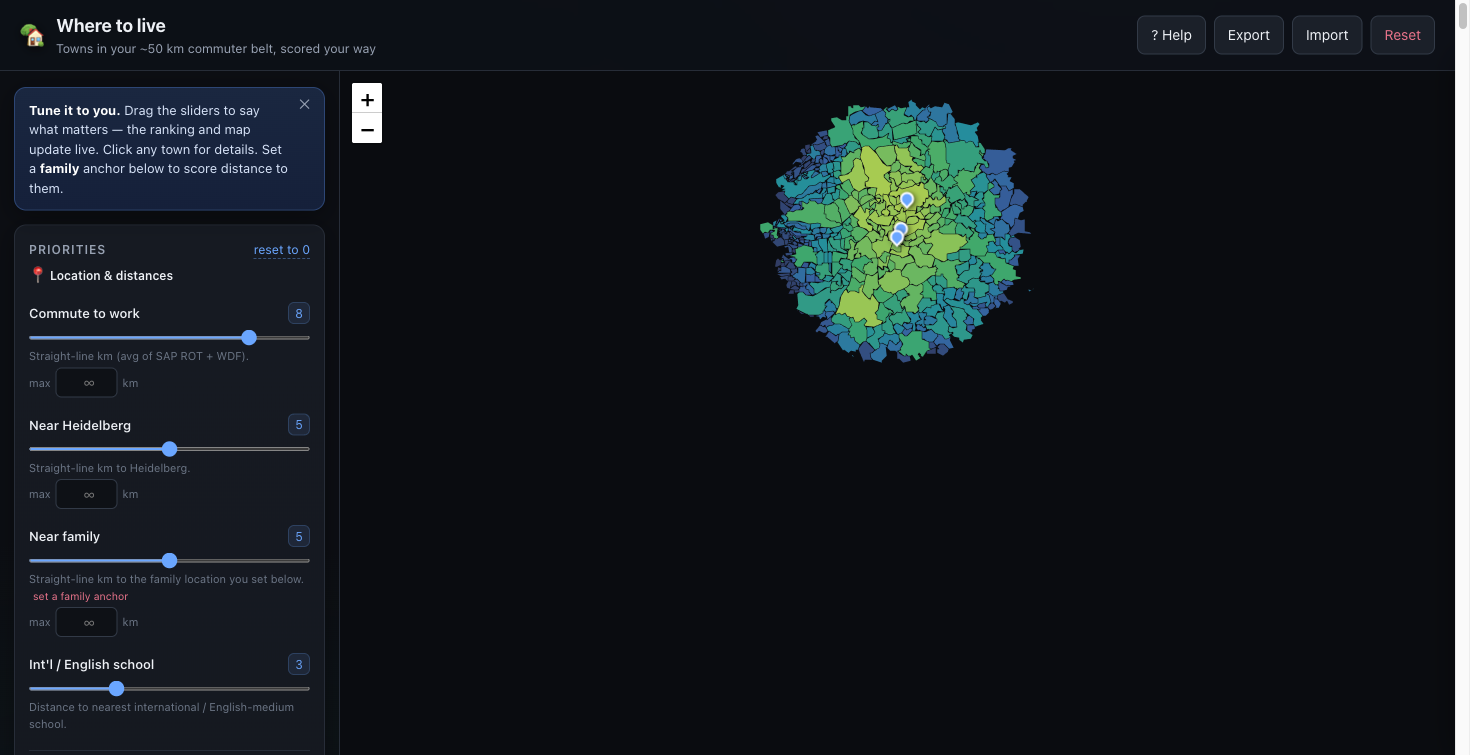
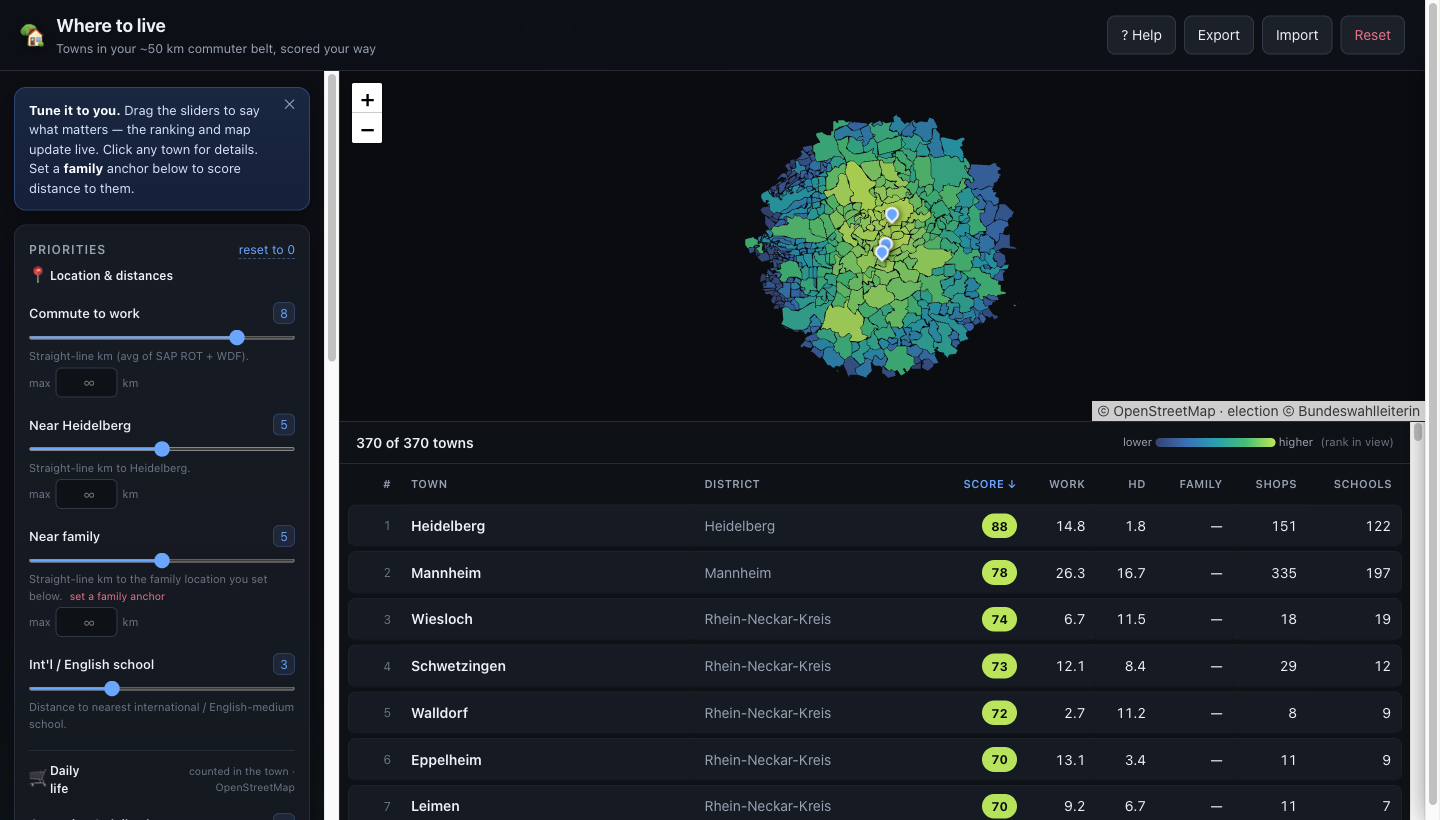
Fix map not visible: constrain layout height so the table scrolls
The 370-row table had no scroll constraint, so it stretched the whole
page to ~17,600px and inflated #map (46%) to ~8,000px tall with content
only in the top strip — the map appeared to be missing. Add min-height:0 +
overflow to the grid/flex children so #results scrolls internally, pin #map
to a flex basis, and call map.invalidateSize() after render and on resize.

diff --git a/styles.css b/styles.css
@@ -33,10 +33,10 @@ header{display:flex;align-items:center;justify-content:space-between;gap:16px;
 .link{background:none;border:none;color:var(--accent);padding:0;font-size:12.5px;text-decoration:none;border-bottom:1px dashed #6aa6ff66}
 .link:hover{color:#8fc0ff}
 
-main{display:grid;grid-template-columns:340px 1fr;height:calc(100% - 59px)}
+main{display:grid;grid-template-columns:340px 1fr;height:calc(100vh - 59px);min-height:0;overflow:hidden}
 
 /* sidebar */
-#controls{overflow:auto;border-right:1px solid var(--line);padding:16px 14px 60px;display:flex;flex-direction:column;gap:14px}
+#controls{overflow:auto;min-height:0;border-right:1px solid var(--line);padding:16px 14px 60px;display:flex;flex-direction:column;gap:14px}
 .panel{background:linear-gradient(180deg,var(--panel),#13161d);border:1px solid var(--line);border-radius:var(--r);padding:14px;box-shadow:var(--sh)}
 .panel-h{display:flex;justify-content:space-between;align-items:baseline;margin-bottom:6px}
 .panel h2{font-size:12px;text-transform:uppercase;letter-spacing:.08em;color:var(--mut);font-weight:600;margin-bottom:10px}
@@ -86,13 +86,13 @@ main{display:grid;grid-template-columns:340px 1fr;height:calc(100% - 59px)}
 .dot.fam{background:var(--good);box-shadow:0 0 0 3px #9ed65922}
 
 /* stage */
-#stage{display:flex;flex-direction:column;min-width:0}
-#map{height:46%;min-height:240px;background:#0a0c10;position:relative}
+#stage{display:flex;flex-direction:column;min-width:0;min-height:0;overflow:hidden}
+#map{flex:0 0 46%;min-height:240px;background:#0a0c10;position:relative}
 .leaflet-container{background:#0a0c10;font:inherit}
 .pin{width:14px;height:14px;border-radius:50% 50% 50% 0;transform:rotate(-45deg);border:2px solid #fff;box-shadow:0 2px 6px #000a}
 .pin.work{background:#6aa6ff}.pin.fam{background:var(--good)}
 
-#results{flex:1;overflow:auto;background:var(--bg2);border-top:1px solid var(--line)}
+#results{flex:1 1 0;min-height:0;overflow:auto;background:var(--bg2);border-top:1px solid var(--line)}
 .res-head{display:flex;justify-content:space-between;align-items:center;padding:10px 16px;
   position:sticky;top:0;background:var(--bg2);z-index:2;border-bottom:1px solid var(--line)}
 .count{font-weight:600;color:var(--ink)}

diff --git a/app.js b/app.js
@@ -339,6 +339,10 @@ async function init() {
   document.getElementById('helpClose').onclick = () => document.getElementById('help').classList.remove('open');
   document.getElementById('hintClose').onclick = () => { state.hintSeen = true; save(); document.getElementById('hint').classList.add('hidden'); };
   refresh();
+  // ensure Leaflet matches the final container size (layout settles after the table renders)
+  const fixSize = () => { if (map) map.invalidateSize(); };
+  requestAnimationFrame(fixSize); setTimeout(fixSize, 200);
+  window.addEventListener('resize', fixSize);
 }
 function exportSettings() {
   const blob = new Blob([JSON.stringify(state, null, 2)], { type: 'application/json' });
